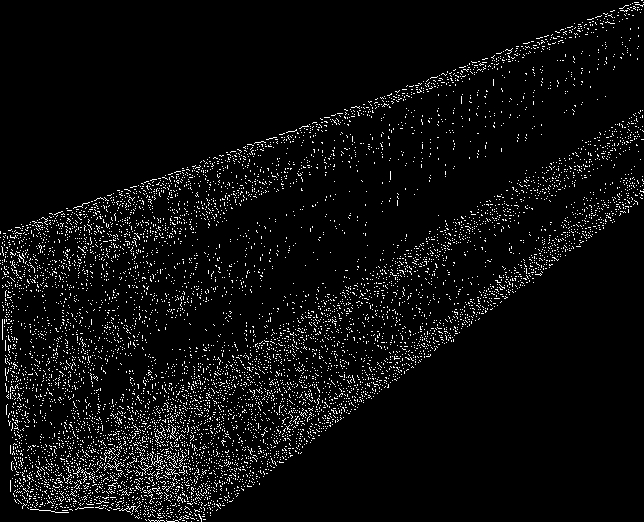
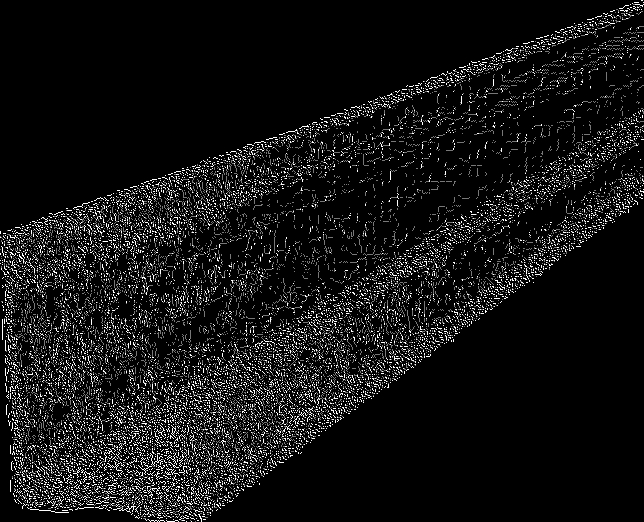
update

diff --git a/src/image/filters.cc b/src/image/filters.cc
@@ -7,13 +7,33 @@
 #include "image.h"
 
 // We create a function to reduce the noise of the image
-void Image::applyMedianFilter() {
+void Image::applyMedianFilter(unsigned int radius) {
+
+  // We check the radius
+  if(radius >= 3) {
+    throw std::runtime_error("Error : in Image::applyMedianFilter : The radius must be equal to or greater than 3");
+  }
+  else if(radius > height || radius > width) {
+    throw std::runtime_error("Error : in Image::applyMedianFilter : The radius is to big");
+  }
+  else if(radius % 2 != 1) {
+    throw std::runtime_error("Error : in Image::applyMedianFilter : The radius must be odd");
+  }
 
   // We create a vector to save the new image
-  std::vector<std::vector<uint8_t>> newPixels = pixels;
+  std::vector<std::vector<uint8_t>> newPixels;
+  // We reserve the output height
+  // (We can't compute the median of the borders of the image)
+  newPixels.reserve(height - (radius - 1) / 2);
 
   // For each line of the image...
   for(unsigned int i = 1; i < height - 1; i++) {
+
+    // We create a vector to save the new line
+    std::vector<uint8_t> newLine;
+    // We reserve the line width
+    // (We can't compute the median of the borders of the image)
+    newLine.reserve(width - 2);
 
     // For each pixel of this line...
     for(unsigned int j = 1; j < width - 1; j++) {
@@ -40,10 +60,14 @@ void Image::applyMedianFilter() {
         uint8_t median = medianPixels[4];
 
         // And we update the value
-        newPixels[i][j * pixelSize + k] = median;
+        newLine.push_back(median);
       }
     }
+
+    // We push the new line
+    newPixels.push_back(newLine);
   }
+
   // We update the image
   pixels = newPixels;
 }

diff --git a/examples/devTest/test.cc b/examples/devTest/test.cc
@@ -5,7 +5,7 @@
 int main() {
   std::cout << "\n";
 
-  char fileNameToRead[] = "test2.jpg";
+  char fileNameToRead[] = "test2_noise_removed.jpg";
   Image myImage(fileNameToRead, "jpg");
 
   std::cout << "Image Dimensions : " << myImage.getWidth() << "x" << myImage.getHeight() <<"\n";
@@ -18,7 +18,7 @@ int main() {
 
   std::cout << "saving..." << "\n";
 
-  char fileNameToSave[] = "testSaved.jpg";
+  char fileNameToSave[] = "testSaved1.jpg";
   myImage.save(fileNameToSave, 100, "jpg");
 
   std::cout << "\n";

diff --git a/src/image/image.h b/src/image/image.h
@@ -50,7 +50,7 @@ class Image {
     void convertToGrayscale();
 
     // We create a function to reduce the noise of the image
-    void applyMedianFilter();
+    void applyMedianFilter(unsigned int radius);
 
     // We create a function to reduce the noise of the image
     void applyGaussianFilter(unsigned int radius);
